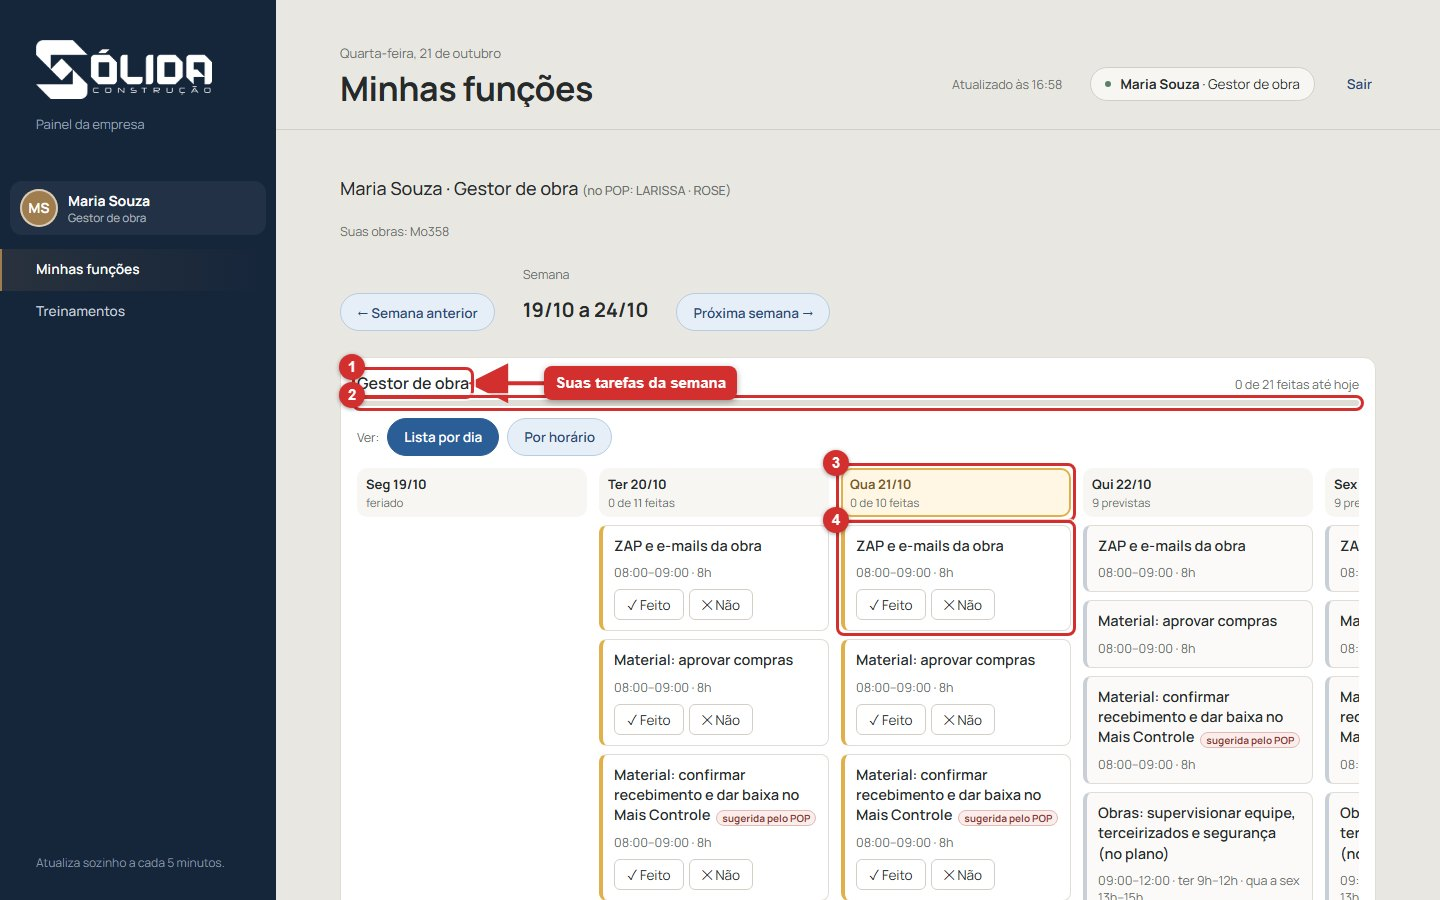
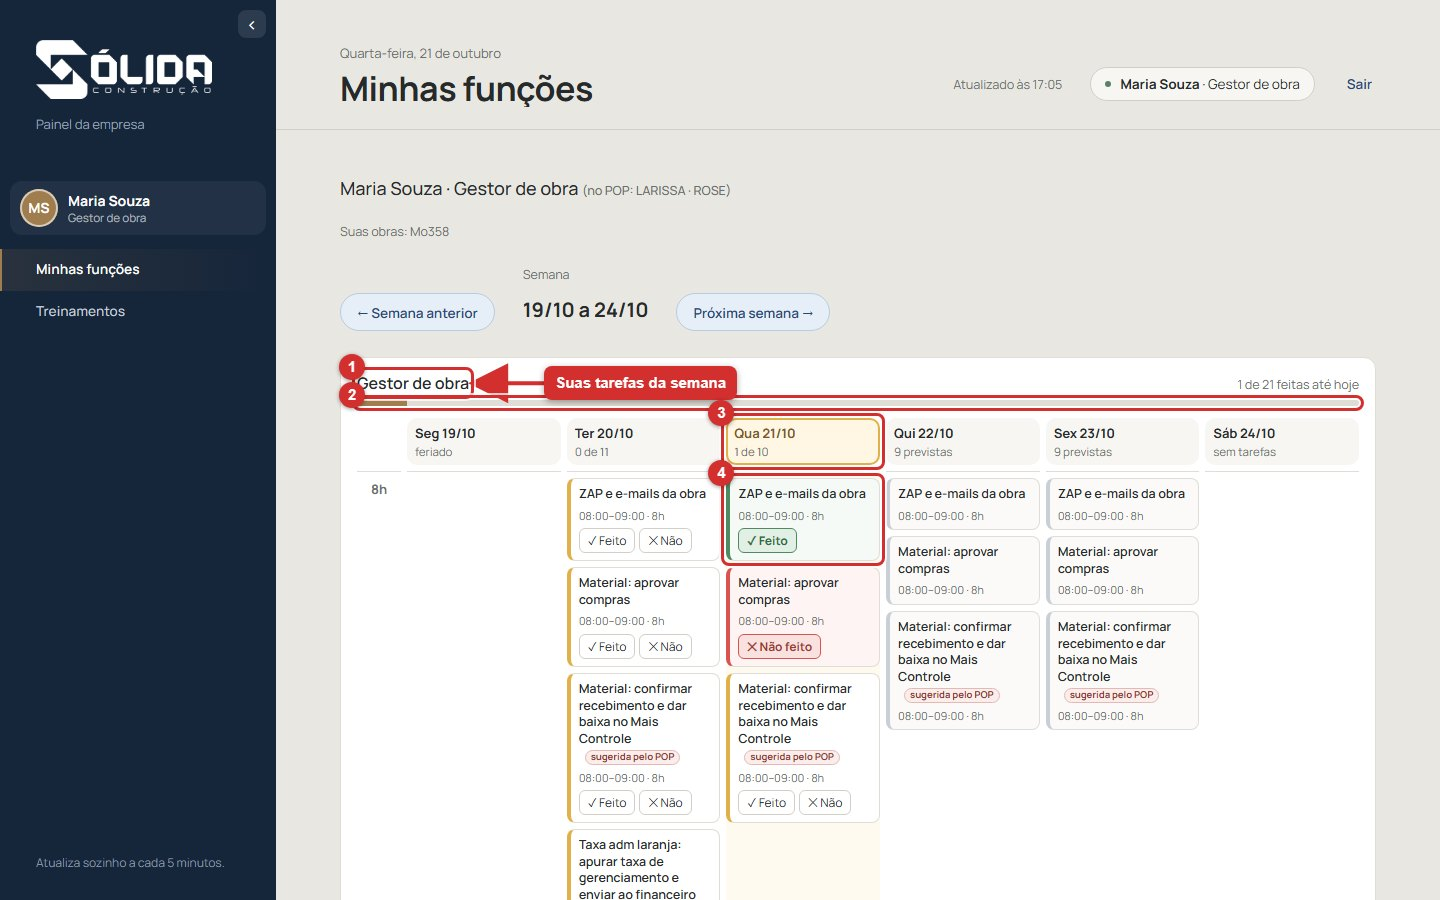
Minhas funcoes: grade por hora com horas na lateral, 6 dias sempre visiveis sem rolar para o lado, texto inteiro; menu lateral recolhivel (aumenta a pagina quando recolhido); treinamento atualizado

diff --git a/app/css/estilo.css b/app/css/estilo.css
@@ -1,4 +1,4 @@
-/* Sistema Sólida — mesmo visual do Painel da Empresa (Solida.exe):
+/* Sistema Sólida — mesmo visual do Painel da Empresa (Solida.exe):
    barra lateral azul-marinho, fundo calcário, Manrope, detalhes em bronze, clicáveis em azul. */
 
 :root {
@@ -1903,13 +1903,65 @@ button.at-prazo:hover { filter: brightness(.96); box-shadow: 0 0 0 2px rgba(45, 
 .leitura-ok { background: rgba(78,138,98,.10); border-color: #4E8A62; }
 .leitura-velha { background: rgba(217,83,79,.10); border-color: #D9534F; color: #A02E2A; }
 
-/* ---- Minhas funções: vista em lista por dia (texto inteiro, botões em cada tarefa) ---- */
-.fl-vista { display: flex; align-items: center; gap: 8px; margin: 4px 0 12px; flex-wrap: wrap; }
-.fl-lista { display: grid; grid-template-columns: repeat(6, minmax(230px, 1fr)); gap: 12px; overflow-x: auto; padding-bottom: 8px; align-items: start; }
-.fl-col { display: flex; flex-direction: column; gap: 8px; min-width: 0; }
-.fl-col .fq-cab { position: sticky; top: 0; z-index: 2; }
-.fl-col .fn-caixa { padding: 10px 11px; gap: 8px; }
-.fl-col .fn-nome { font-size: 14.5px; line-height: 1.4; }
-.fl-col .fn-meta { font-size: 12.5px; }
-.fl-col .fn-b { font-size: 13.5px; padding: 5px 12px; }
-.fl-col .fn-auto { font-size: 13px; }
+/* ---- Minhas funções: vista em lista por dia (texto inteiro; os 6 dias sempre cabem na tela, sem rolar para o lado) ---- */
+.fl-lista { display: grid; grid-template-columns: repeat(6, minmax(0, 1fr)); gap: 8px; align-items: start; }
+.fl-col { display: flex; flex-direction: column; gap: 6px; min-width: 0; }
+.fl-col .fq-cab { padding: 6px 8px; }
+.fl-col .fq-cab b { font-size: 13px; }
+.fl-col .fq-cab small { font-size: 11.5px; }
+.fl-col .fn-caixa { padding: 7px 8px; gap: 6px; }
+.fl-col .fn-nome { font-size: 12.5px; line-height: 1.32; overflow-wrap: anywhere; }
+.fl-col .fn-nome .selo-pop { font-size: 9.5px; }
+.fl-col .fn-meta { font-size: 11px; line-height: 1.25; }
+.fl-col .fn-acoes { gap: 4px; }
+.fl-col .fn-b { font-size: 12px; padding: 3px 8px; }
+.fl-col .fn-auto { font-size: 12px; }
+@media (max-width: 900px) { .fl-lista { grid-template-columns: repeat(2, minmax(0, 1fr)); } .fl-col .fn-nome { font-size: 13.5px; } }
+@media (max-width: 560px) { .fl-lista { grid-template-columns: minmax(0, 1fr); } }
+
+/* ---- Minhas funções: grade por hora (horas na lateral; tarefas do mesmo horário empilhadas, texto inteiro) ---- */
+.fh-grade { display: grid; grid-template-columns: 44px repeat(6, minmax(0, 1fr)); gap: 6px; align-items: stretch; }
+.fh-canto { }
+.fh-dia { padding: 6px 8px; }
+.fh-dia b { font-size: 13px; }
+.fh-dia small { font-size: 11.5px; }
+.fh-hora { display: flex; align-items: flex-start; justify-content: center; padding-top: 8px; font-size: 13px; color: var(--muted); border-top: 1px solid var(--linha2); }
+.fh-hora b { font-weight: 700; }
+.fh-cel { display: flex; flex-direction: column; gap: 6px; min-width: 0; padding-top: 6px; border-top: 1px solid var(--linha2); }
+.fh-cel.hoje { background: rgba(255, 246, 227, .55); border-radius: 0 0 8px 8px; }
+.fh-cel .fn-caixa { padding: 7px 8px; gap: 6px; }
+.fh-cel .fn-nome { font-size: 12.5px; line-height: 1.32; overflow-wrap: anywhere; }
+.fh-cel .fn-nome .selo-pop { font-size: 9.5px; }
+.fh-cel .fn-meta { font-size: 11px; line-height: 1.25; }
+.fh-cel .fn-acoes { gap: 4px; }
+.fh-cel .fn-b { font-size: 12px; padding: 3px 8px; }
+.fh-cel .fn-auto { font-size: 12px; }
+.fh-estreita { display: none; }
+@media (max-width: 900px) { .fh-larga { display: none; } .fh-estreita { display: block; } }
+
+/* ---- menu lateral recolhível: ao abrir uma aba, fica só uma tirinha com a setinha (só em tela larga) ---- */
+nav { position: relative; transition: width .18s ease; }
+.nav-toggle { position: absolute; top: 10px; right: 10px; z-index: 5; width: 28px; height: 28px; border: 0; border-radius: 8px; cursor: pointer; background: rgba(255, 255, 255, .10); color: #fff; font-size: 18px; line-height: 1; display: flex; align-items: center; justify-content: center; }
+.nav-toggle:hover { background: rgba(255, 255, 255, .22); }
+@media (min-width: 761px) {
+  body.nav-recolhido nav { width: 40px; padding: 10px 0; overflow: hidden; }
+  body.nav-recolhido nav > :not(.nav-toggle) { display: none; }
+  body.nav-recolhido .nav-toggle { right: auto; left: 6px; top: 10px; }
+}
+@media (max-width: 760px) { .nav-toggle { display: none; } }
+
+/* ---- menu recolhido: a página de Minhas funções cresce para aproveitar o espaço ---- */
+@media (min-width: 761px) {
+  body.nav-recolhido .conteudo { padding-left: 32px; padding-right: 32px; }
+  body.nav-recolhido header.topo { padding-left: 32px; padding-right: 32px; }
+  body.nav-recolhido .fh-grade { grid-template-columns: 52px repeat(6, minmax(0, 1fr)); gap: 9px; }
+  body.nav-recolhido .fh-dia b { font-size: 15px; }
+  body.nav-recolhido .fh-dia small { font-size: 12.5px; }
+  body.nav-recolhido .fh-hora { font-size: 15px; }
+  body.nav-recolhido .fh-cel { gap: 8px; }
+  body.nav-recolhido .fh-cel .fn-caixa { padding: 10px 11px; gap: 8px; }
+  body.nav-recolhido .fh-cel .fn-nome { font-size: 14.5px; line-height: 1.38; }
+  body.nav-recolhido .fh-cel .fn-nome .selo-pop { font-size: 10.5px; }
+  body.nav-recolhido .fh-cel .fn-meta { font-size: 12.5px; }
+  body.nav-recolhido .fh-cel .fn-b { font-size: 14px; padding: 5px 12px; }
+}

diff --git a/app/js/main.js b/app/js/main.js
@@ -237,6 +237,17 @@ function obrasDeAcesso() {
   return obrasDisponiveis().filter((o) => /^Mo\d/i.test(o) && !enc.has(o));
 }
 
+// Menu lateral recolhível (21/10): ao abrir uma aba o menu recolhe e fica só uma tirinha com a setinha, para dar mais espaço à página.
+// Clicar na setinha abre de novo. Só em tela larga (no celular o menu já é uma faixa no alto).
+const recolhido = () => document.body.classList.contains('nav-recolhido');
+const botaoRecolher = () => `<button type="button" class="nav-toggle" id="navToggle" title="${recolhido() ? 'Abrir o menu' : 'Recolher o menu'}" aria-label="${recolhido() ? 'Abrir o menu' : 'Recolher o menu'}">${recolhido() ? '›' : '‹'}</button>`;
+function ajustarMenuRecolhivel() {
+  $('#nav').addEventListener('click', (e) => {
+    if (e.target.closest('#navToggle')) { document.body.classList.toggle('nav-recolhido'); const b = $('#navToggle'); if (b) { b.textContent = recolhido() ? '›' : '‹'; b.title = recolhido() ? 'Abrir o menu' : 'Recolher o menu'; } return; }
+    if (e.target.closest('a.nav-item, a.nav-perfil')) { document.body.classList.add('nav-recolhido'); const b = $('#navToggle'); if (b) { b.textContent = '›'; b.title = 'Abrir o menu'; } }
+  });
+}
+
 function desenharNav(sel) {
   const CFG = estado.cfg;
   const f = funcaoAtual();
@@ -247,7 +258,7 @@ function desenharNav(sel) {
   const s = sessao();
   // acesso restrito (por enquanto, quase todo mundo): só Minhas funções e Treinamentos
   if (soMinhasFuncoes(f)) {
-    $('#nav').innerHTML = `<div class="marca"><img src="img/logo.png" alt="Sólida"><span>Painel da empresa</span></div>`
+    $('#nav').innerHTML = botaoRecolher() + `<div class="marca"><img src="img/logo.png" alt="Sólida"><span>Painel da empresa</span></div>`
       + `<div class="nav-perfil">${perfil.avatar(s.nome, 38)}<span><b>${esc(s.nome)}</b><small>${esc(f.nome)}</small></span></div>`
       + item('funcoes', 'Minhas funções') + item('treinamentos', 'Treinamentos')
       + `<div class="navfoot">${estado.sync.origem === 'link' ? 'Atualiza sozinho a cada 5 minutos.' : 'Mostrando os últimos dados baixados.'}</div>`;
@@ -255,7 +266,7 @@ function desenharNav(sel) {
     return;
   }
   // perfil (primeira coisa do menu): bonequinho + nome; clicando abre a pontuação e as sugestões
-  $('#nav').innerHTML = `<div class="marca"><img src="img/logo.png" alt="Sólida"><span>Painel da empresa</span></div>`
+  $('#nav').innerHTML = botaoRecolher() + `<div class="marca"><img src="img/logo.png" alt="Sólida"><span>Painel da empresa</span></div>`
     + `<a class="nav-perfil${sel === 'perfil' ? ' sel' : ''}" href="#/perfil" title="Meu perfil">${perfil.avatar(s.nome, 38)}<span><b>${esc(s.nome)}</b><small>${esc(f.nome)}</small></span></a>`
     + item('geral', 'Visão geral') + (paginaVisivel(f, 'feed') ? itemFeed() : '') + (paginaVisivel(f, 'atas') ? itemAtas() : '') + (!f.semMinhaSemana && paginaVisivel(f, 'meudia') && f.editaProdutividade ? item('meudia', 'Minha semana') : '') + (!f.semMinhaSemana && paginaVisivel(f, 'meudia') ? item('funcoes', 'Minhas funções') : '') + (f.veQuadro ? item('quadro', 'Quadro de funções') : '')
     + '<div class="nav-sep"></div>'
@@ -727,6 +738,7 @@ function configurar() {
     if (m) { if (m.dataset.loginModo === 'sair') { await nuvem.sair(); } estado.loginNuvem = { modo: m.dataset.loginModo === 'sair' ? 'entrar' : m.dataset.loginModo }; mostrarLogin(); return; }
     if (e.target.closest('[data-login-recarregar]')) { await nuvem.carregarPerfil(); desenhar(); atualizar(); }
   });
+  ajustarMenuRecolhivel();
   $('#bSair').addEventListener('click', async () => {
     if (nuvem.NA_NUVEM) await nuvem.sair();
     sair();

diff --git a/app/js/telas/meudia.js b/app/js/telas/meudia.js
@@ -184,6 +184,14 @@ function funcoesSemana(ref, CFG) {
       <div class="fq-cab ${c === hoje ? 'hoje' : ''}"><b>${DIA_CURTO[i]} ${c.slice(8, 10)}/${c.slice(5, 7)}</b><small>${feriado(c) ? 'feriado' : l.length ? (c > hoje ? `${l.length} previstas` : `${fe} de ${l.length} feitas`) : 'sem tarefas'}</small></div>
       ${[...l].sort((a, b) => a.ini - b.ini).map((e) => caixaTarefa(e.t, e.d, estadoDe(e.t, e.d), hoje, null, dispo(e)))}
     </div>`)}</div>`;
+  // Grade por hora (padrão em tela larga): horas na lateral, um dia por coluna. Tarefas do mesmo horário ficam empilhadas na célula
+  // (cada uma com o texto inteiro), então nada fica espremido nem cortado e os 6 dias cabem na tela sem rolar para o lado.
+  const horasComTarefa = [...new Set(colunas.flatMap(({ l }) => l.map((e) => Math.floor(e.ini / 60))))].sort((a, b) => a - b);
+  const vistaHoras = html`<div class="fh-grade">
+    <div class="fh-canto"></div>
+    ${colunas.map(({ c, l, fe }, i) => html`<div class="fq-cab fh-dia ${c === hoje ? 'hoje' : ''}"><b>${DIA_CURTO[i]} ${c.slice(8, 10)}/${c.slice(5, 7)}</b><small>${feriado(c) ? 'feriado' : l.length ? (c > hoje ? `${l.length} previstas` : `${fe} de ${l.length}`) : 'sem tarefas'}</small></div>`)}
+    ${horasComTarefa.map((h) => html`<div class="fh-hora"><b>${h}h</b></div>${colunas.map(({ c, l }) => html`<div class="fh-cel ${c === hoje ? 'hoje' : ''}">${l.filter((e) => Math.floor(e.ini / 60) === h).sort((a, b) => a.ini - b.ini).map((e) => caixaTarefa(e.t, e.d, estadoDe(e.t, e.d), hoje, null, dispo(e)))}</div>`)}`)}
+  </div>`;
   const botoesVista = html`<div class="fl-vista" role="group" aria-label="Como ver as tarefas"><span class="pequeno">Ver:</span>
     <button type="button" class="botao ${vista === 'lista' ? 'on' : ''}" data-vista-fn="lista">Lista por dia</button>
     <button type="button" class="botao ${vista === 'quadro' ? 'on' : ''}" data-vista-fn="quadro">Por horário</button></div>`;
@@ -208,7 +216,7 @@ function funcoesSemana(ref, CFG) {
       <header class="fn-cab"><h3>${f.nome}</h3>
         <span class="pequeno">${previstas ? `${feitas} de ${previstas} feitas até hoje` : 'nenhuma tarefa até hoje'}</span></header>
       ${previstas ? html`<div class="pct" style="margin:6px 0 12px"><i style="width:${Math.round((feitas / previstas) * 100)}%"></i></div>` : ''}
-      ${vista === 'lista' ? vistaLista : html`<div class="fq-quadro"><div class="fq-canto"></div>${cabecas}<div class="fq-horas" style="height:${altTotal}px">${horas}</div>${trilhos}</div>
+      ${vista === 'lista' ? html`<div class="fh-larga">${vistaHoras}</div><div class="fh-estreita">${vistaLista}</div>` : html`<div class="fq-quadro"><div class="fq-canto"></div>${cabecas}<div class="fq-horas" style="height:${altTotal}px">${horas}</div>${trilhos}</div>
       <p class="legenda-semana">Arraste um cartão para outro dia ou horário; puxe a borda de baixo para mudar a duração; clique para ver os detalhes. Cartões no mesmo horário ficam lado a lado. O ajuste fica guardado neste navegador.</p>`}
       <p class="legenda-semana"><span class="lg lg-ok"></span> feito <span class="lg lg-abaixo"></span> não feito <span class="lg lg-sem"></span> falta marcar · você mesmo marca cada tarefa: ✓ Feito ou ✕ Não feito · clique numa marcação para desfazer</p>
       ${atrasadas.length ? html`<h4 class="fn-sub">⚠ Ficaram sem marcar em semanas anteriores <span class="pequeno">${atrasadas.length} ${atrasadas.length > 1 ? 'tarefas' : 'tarefa'} — marque aqui ou em "Semana anterior"</span></h4>

diff --git a/app/js/treinamentos-slides.js b/app/js/treinamentos-slides.js
@@ -32,9 +32,11 @@ export const SUBTOPICOS = [
         slides: [
           { imagem: img('func-01-menu'), titulo: 'Onde fica', texto: 'Minhas funções é a página onde você controla o seu trabalho do dia a dia. No menu da esquerda, clique em Minhas funções.',
             legenda: ['Minhas funções: as tarefas da sua função, de segunda a sábado.', 'Treinamentos: aqui você revê este passo a passo quando quiser.'] },
-          { imagem: img('func-02-quadro'), titulo: 'A sua semana', texto: 'Cada coluna é um dia e cada cartão é uma tarefa da sua função. A barra mostra quantas você já marcou como feitas na semana.',
-            legenda: ['O seu nome e a sua função.', 'Barra de progresso: tarefas feitas até hoje.', 'Cada coluna é um dia. A de hoje fica destacada em amarelo e mostra quantas você já fez.', 'Um cartão = uma tarefa, com o horário previsto.'],
+          { imagem: img('func-02-quadro'), titulo: 'A sua semana', texto: 'Cada coluna é um dia (de segunda a sábado), as horas ficam na lateral e cada cartão é uma tarefa da sua função. A barra mostra quantas você já marcou como feitas na semana.',
+            legenda: ['O seu nome e a sua função.', 'Barra de progresso: tarefas feitas até hoje.', 'O dia: o de hoje fica destacado em amarelo e mostra quantas tarefas você já fez.', 'Um cartão = uma tarefa. Tarefas do mesmo horário ficam uma embaixo da outra, com o texto inteiro.'],
             dica: 'Tarefas de dias que ainda não chegaram aparecem em cinza: só dá para marcar de hoje para trás.' },
+          { imagem: img('func-10-menu'), titulo: 'O menu recolhe para dar espaço', texto: 'Quando você abre uma página, o menu da esquerda recolhe e sobra só uma tirinha com uma setinha. Assim os 6 dias da semana cabem na tela, com as horas na lateral.',
+            legenda: ['Clique na setinha para abrir o menu de novo.'] },
           { imagem: img('func-03-marcar'), titulo: 'Marque cada tarefa: feito ou não feito', texto: 'Em cada cartão há dois botões. O sistema não marca nada por você: só vale o que você marcar.',
             legenda: ['O nome completo da tarefa.', 'Fez a tarefa? Clique em ✓ Feito.', 'Não deu para fazer? Clique em ✕ Não.'],
             dica: 'Errou? Clique de novo no botão já marcado para desfazer.' },
